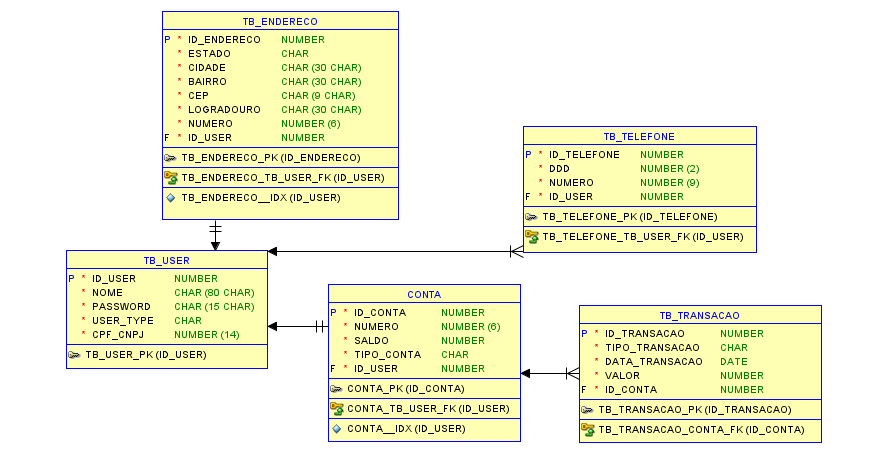
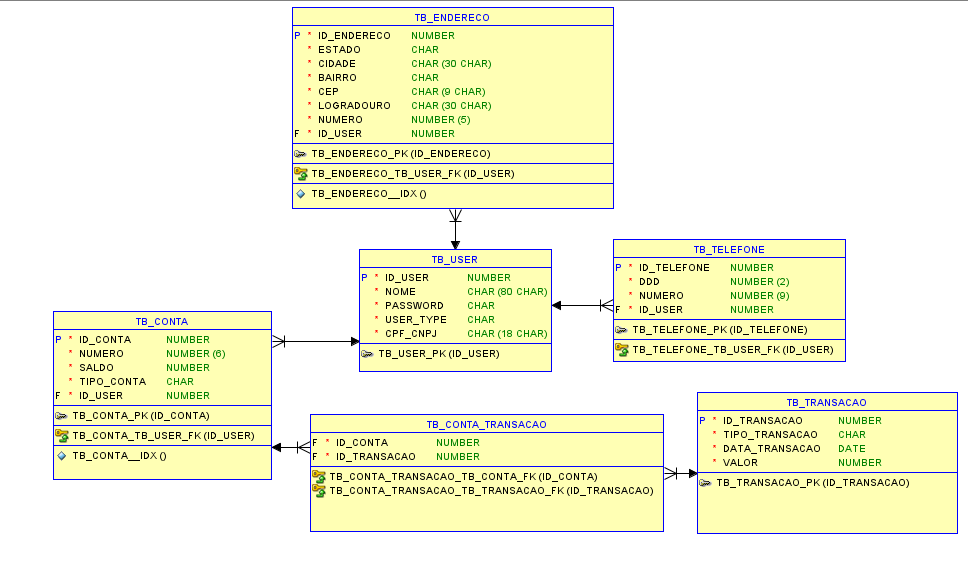
Criado novos métodos para sacar e depositar, corrigido bug no deletar usuário, documentações formatadas, readme atualizado, projeto testado e finalizado.

diff --git a/src/main/java/br/com/bankaccount/BankAccount/Controller/ContaController.java b/src/main/java/br/com/bankaccount/BankAccount/Controller/ContaController.java
@@ -28,6 +28,8 @@ import org.springframework.security.core.Authentication;
 import org.springframework.web.bind.annotation.*;
 import org.springframework.web.util.UriComponentsBuilder;
 
+import java.math.BigDecimal;
+
 @RestController
 @RequestMapping("conta")
 @Tag(name = "conta", description = "API do modelo Conta Bancária, métodos Atualizar, Buscar." +
@@ -67,9 +69,9 @@ public class ContaController {
     }
 
     //Método de transação de Conta
-    @PostMapping("realizarTransacao/{idRemetente}/{idDestinatario}")
+    @PostMapping("realizarTransacao/{idDestinatario}")
     @Transactional
-    @Operation(summary = "Operação de Transação x Conta", description = "Usando o ID da conta pagante e ID da conta recebedora," +
+    @Operation(summary = "Operação de Transação x Conta", description = "Realiza uma transação bancária para outra conta com ID designado," +
             " junto com o json, realiza o cadastro conta x transação.")
     @ApiResponses({
             @ApiResponse(responseCode = "201", description = "Transação e Conta cadastrados com sucesso!",
@@ -78,12 +80,12 @@ public class ContaController {
             @ApiResponse(responseCode = "404", description = "ID's das contas não encontrados ou formato json incorreto."),
             @ApiResponse(responseCode = "500", description = "Erro de servidor.")
     })
-    public ResponseEntity<?> transacao(@PathVariable("idRemetente") Long id, @PathVariable("idDestinatario") Long id2, @RequestBody @Valid CadastrarTransacaoDto transacaoDto, UriComponentsBuilder uriBuilder, Authentication authentication) {
+    public ResponseEntity<?> transacao(@PathVariable("idDestinatario") Long id, @RequestBody @Valid CadastrarTransacaoDto transacaoDto, UriComponentsBuilder uriBuilder, Authentication authentication) {
         try {
-            var conta1 = contaRepository.getReferenceById(id);
-            var conta2 = contaRepository.getReferenceById(id2);
-
             var user = (User) authentication.getPrincipal();
+            var conta1 = contaRepository.getReferenceById(user.getConta().getId());
+            var conta2 = contaRepository.getReferenceById(id);
+
             if (!user.getId().equals(conta1.getUser().getId())) {
                 return ResponseEntity.status(HttpStatus.FORBIDDEN).body("Você não pode fazer uma transação sem ser sua a conta!");
             }
@@ -159,4 +161,46 @@ public class ContaController {
         }
     }
 
+    @PostMapping("valor-depositado")
+    @Transactional
+    @Operation(summary = "Depositar Dinheiro", description = "Deposita o dinheiro em sua conta bancária, somando no seu saldo.")
+    @ApiResponses({
+            @ApiResponse(responseCode = "200", description = "Valor Depositado com sucesso!",
+                    content = @Content(schema = @Schema(implementation = DetalhesContaDto.class), mediaType = "application/json")),
+            @ApiResponse(responseCode = "403", description = "Token inválido ou sem permissão de acesso!"),
+            @ApiResponse(responseCode = "500", description = "Erro de servidor.")
+    })
+    public ResponseEntity<?> depositar(@RequestParam("valor-depositado") BigDecimal valor, Authentication authentication) {
+        var user = (User) authentication.getPrincipal();
+        var conta = user.getConta();
+        if (valor.compareTo(BigDecimal.ZERO) <= 0) {
+            return ResponseEntity.status(HttpStatus.NOT_ACCEPTABLE).body("Valor precisa ser positivo!");
+        }
+        conta.depositar(conta, valor);
+        contaRepository.save(conta);
+        return ResponseEntity.ok(new DetalhesContaDto(conta));
+    }
+
+    @PostMapping("valor-sacado")
+    @Transactional
+    @Operation(summary = "Sacar Dinheiro", description = "Saca o dinheiro com base no seu valor bancário, subtraindo-o de sua conta.")
+    @ApiResponses({
+            @ApiResponse(responseCode = "200", description = "Valor Sacado com sucesso!",
+                    content = @Content(schema = @Schema(implementation = DetalhesContaDto.class), mediaType = "application/json")),
+            @ApiResponse(responseCode = "403", description = "Token inválido ou sem permissão de acesso."),
+            @ApiResponse(responseCode = "406", description = "Valor inserido maior do que restante em conta."),
+            @ApiResponse(responseCode = "500", description = "Erro de servidor.")
+    })
+    public ResponseEntity<?> sacar(@RequestParam("valor-sacado") BigDecimal valor, Authentication authentication) {
+        var user = (User) authentication.getPrincipal();
+        var conta = user.getConta();
+        if (valor.compareTo(conta.getSaldo()) > 0) {
+            return ResponseEntity.status(HttpStatus.NOT_ACCEPTABLE).body("Valor maior do que salado bancário.");
+        } else if (valor.compareTo(BigDecimal.ZERO) <= 0) {
+            return ResponseEntity.status(HttpStatus.NOT_ACCEPTABLE).body("Valor precisa ser positivo!");
+        }
+        conta.sacar(conta, valor);
+        contaRepository.save(conta);
+        return ResponseEntity.ok(new DetalhesContaDto(conta));
+    }
 }

diff --git a/src/main/java/br/com/bankaccount/BankAccount/Controller/UserController.java b/src/main/java/br/com/bankaccount/BankAccount/Controller/UserController.java
@@ -115,7 +115,7 @@ public class UserController {
 
     @PutMapping("atualizar")
     @Transactional
-    @Operation(summary = "Atualizar Usuário", description = "Atualiza o Usuário com base no ID da URL.")
+    @Operation(summary = "Atualizar Usuário", description = "Atualiza o Usuário logado.")
     @ApiResponses({
             @ApiResponse(responseCode = "200", description = "Usuário atualizado com sucesso!",
                     content = @Content(schema = @Schema(implementation = DetalhesUserDto.class), mediaType = "application/json")),
@@ -149,6 +149,10 @@ public class UserController {
             if (!usuario.getId().equals(id)) {
                 return ResponseEntity.status(HttpStatus.FORBIDDEN).body("Você não pode excluir outro usuário!");
             }
+            var conta = usuario.getConta();
+            usuario.setConta(null);
+            conta.setUser(null);
+            contaRepository.save(conta);
             userRepository.delete(usuario);
             return ResponseEntity.noContent().build();
         } catch (EntityNotFoundException e) {

diff --git a/src/main/java/br/com/bankaccount/BankAccount/model/User.java b/src/main/java/br/com/bankaccount/BankAccount/model/User.java
@@ -41,13 +41,13 @@ public class User implements UserDetails {
     @Column(name = "CPF_CNPJ", length = 18, nullable = false, unique = true)
     private String cpfCnpj;
 
-    @OneToOne(mappedBy = "user", cascade = CascadeType.ALL, orphanRemoval = true)
+    @OneToOne(mappedBy = "user", cascade = CascadeType.ALL, fetch = FetchType.EAGER)
     private Endereco endereco;
 
     @OneToMany(mappedBy = "user", cascade = CascadeType.ALL, fetch = FetchType.EAGER)
     private List<Telefone> telefones;
 
-    @OneToOne(mappedBy = "user", cascade = CascadeType.DETACH)
+    @OneToOne(mappedBy = "user", cascade = CascadeType.DETACH, fetch = FetchType.EAGER)
     private Conta conta;
 
     public void adicionarTelefone(Telefone telefone) {

diff --git a/src/main/java/br/com/bankaccount/BankAccount/dto/ContaDto/DetalhesContaDto.java b/src/main/java/br/com/bankaccount/BankAccount/dto/ContaDto/DetalhesContaDto.java
@@ -4,8 +4,10 @@ import br.com.bankaccount.BankAccount.dto.UserDto.DetalhesUserDto;
 import br.com.bankaccount.BankAccount.model.Conta;
 import br.com.bankaccount.BankAccount.model.TipoConta;
 
-public record DetalhesContaDto(int numero, TipoConta tipoConta, DetalhesUserDto userDto) {
+import java.math.BigDecimal;
+
+public record DetalhesContaDto(int numero, TipoConta tipoConta, BigDecimal saldo, DetalhesUserDto userDto) {
     public DetalhesContaDto(Conta conta) {
-        this(conta.getNumero(), conta.getTipoConta(), new DetalhesUserDto(conta.getUser()));
+        this(conta.getNumero(), conta.getTipoConta(), conta.getSaldo(), new DetalhesUserDto(conta.getUser()));
     }
 }

diff --git a/src/main/java/br/com/bankaccount/BankAccount/model/Conta.java b/src/main/java/br/com/bankaccount/BankAccount/model/Conta.java
@@ -64,4 +64,16 @@ public class Conta {
         conta1.setSaldo(valor1);
         conta2.setSaldo(valor2);
     }
+
+    public void depositar(Conta conta,BigDecimal valor){
+        BigDecimal saldoConta = conta.getSaldo();
+        saldoConta = saldoConta.add(valor);
+        this.saldo = saldoConta;
+    }
+
+    public void sacar(Conta conta,BigDecimal valor){
+        BigDecimal saldoConta = conta.getSaldo();
+        saldoConta = saldoConta.subtract(valor);
+        this.saldo = saldoConta;
+    }
 }

diff --git a/src/main/java/br/com/bankaccount/BankAccount/Controller/TransacaoController.java b/src/main/java/br/com/bankaccount/BankAccount/Controller/TransacaoController.java
@@ -59,7 +59,7 @@ public class TransacaoController {
         return ResponseEntity.ok(lista);
     }
 
-    @GetMapping("id")
+    @GetMapping("{id}")
     @Operation(summary = "Buscar Transação por ID", description = "Busca uma transação com base no ID da URL.")
     @ApiResponses({
             @ApiResponse(responseCode = "200", description = "Transação buscada com sucesso!",

diff --git a/src/main/java/br/com/bankaccount/BankAccount/model/Transacao.java b/src/main/java/br/com/bankaccount/BankAccount/model/Transacao.java
@@ -42,7 +42,7 @@ public class Transacao {
 
     @ManyToMany
     @JoinTable(
-            name = "Conta_Transacao",
+            name = "TB_CONTA_TRANSACAO",
             joinColumns = @JoinColumn(name = "ID_TRANSACAO"),
             inverseJoinColumns = @JoinColumn(name = "ID_CONTA")
     )

diff --git a/README.md b/README.md
@@ -112,10 +112,22 @@ ______________________________________
 
 * **Requer Token.**
 
+--------------------------------------
+### Sacar valor bancário
+
+`/conta/valor-sacado?valor-sacado=?`
+
+* **Requer Token.**
+--------------------------------------
+### Depositar valor bancário
+
+`/conta/valor-depositado?valor-depositado=?`
+
+* **Requer Token.**
 ______________________________________
 ### Realizar transação entre Contas.
 
-`/conta/realizarTransacao/{idRemetente}/{idDestinatario}`.
+`/conta/realizarTransacao/{idDestinatario}`.
 
 * **Requer Token.**
 
